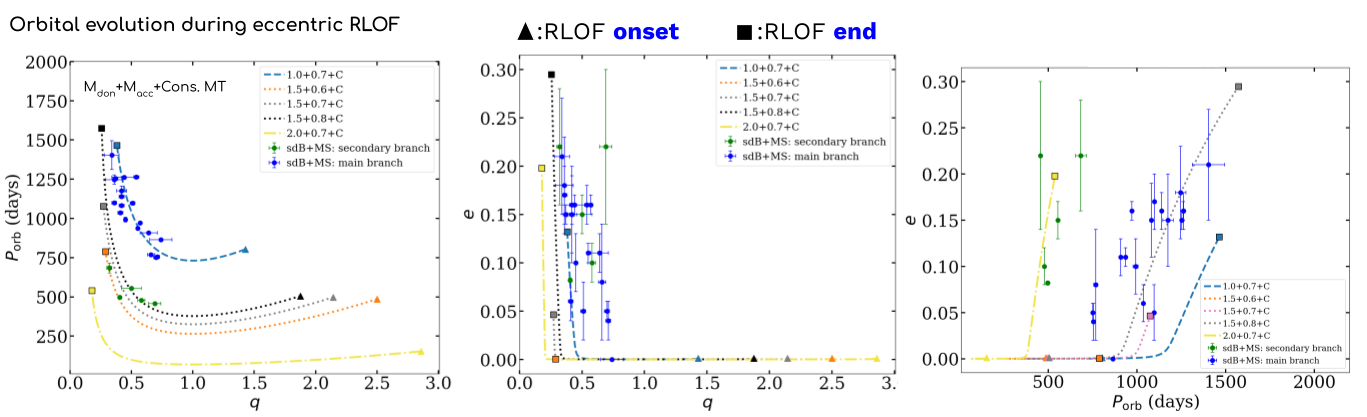
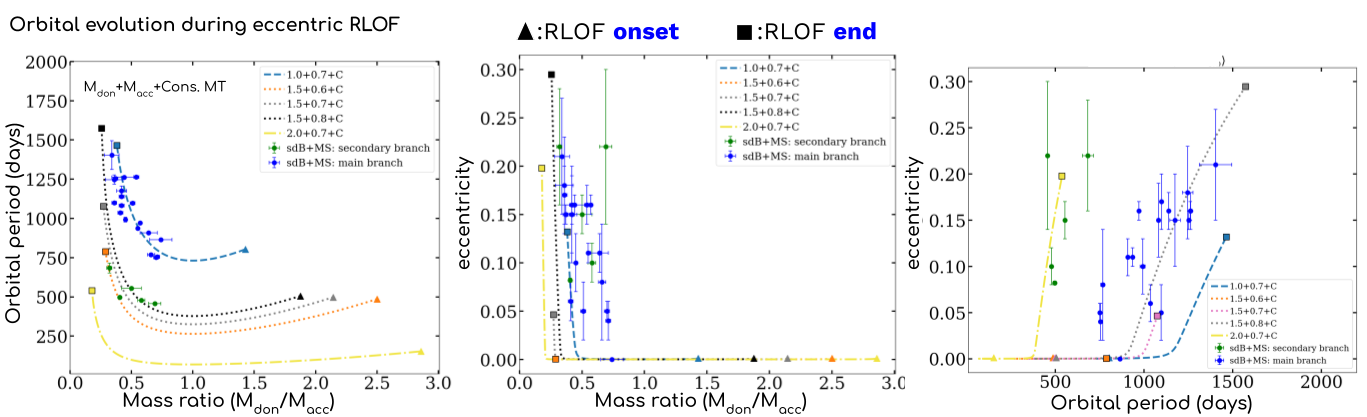
Split publications into first-author and co-authored sections
- /publications/ now renders sections from _data/publication_sections.yml;
  a paper picks one with `section:`, defaulting to the first via _config.yml
- Archive layout gains `hide_title` and `title_center` front-matter flags
- Centre the Talks title and shorten it to "Talks"
- Move the Google Scholar note to the bottom of /publications/
- Update evolution.png

diff --git a/_pages/publications.html b/_pages/publications.html
@@ -1,20 +1,48 @@
 ---
 layout: archive
 title: "Publications"
+hide_title: true
 permalink: /publications/
 ---
 
-{% if site.author.googlescholar %}
-  <div class="wordwrap">You can also find my articles on <a href="{{site.author.googlescholar}}">my Google Scholar profile</a>.</div>
-{% endif %}
-
 {% include base_path %}
 
-<div class="item-card-grid">
-{% for post in site.publications reversed %}
-  {% include item-card.html item=post %}
+{% comment %}
+  The sections, their headings and their order all come from
+  _data/publication_sections.yml; a publication chooses one with `section: <id>`
+  in its front matter and otherwise falls into the first section (the default is
+  set for the whole collection in _config.yml). The page's own title is hidden
+  (`hide_title` above) so these section headings read as the page's headings.
+
+  A section with nothing in it is skipped, and a publication whose `section:`
+  matches no id — a typo, say — falls back to the first section rather than
+  disappearing off the page.
+{% endcomment %}
+
+{% assign known_ids = site.data.publication_sections | map: "id" %}
+{% assign all_publications = site.publications | sort: "date" | reverse %}
+
+{% for section in site.data.publication_sections %}
+  {% capture cards %}
+    {% for post in all_publications %}
+      {% assign sec = post.section %}
+      {% unless known_ids contains sec %}{% assign sec = known_ids | first %}{% endunless %}
+      {% if sec == section.id %}
+        {% include item-card.html item=post %}
+      {% endif %}
+    {% endfor %}
+  {% endcapture %}
+
+  {% assign cards = cards | strip %}
+
+  {% if cards != '' %}
+    <section class="publication-section">
+      <h1 class="publication-section__title">{{ section.title }}</h1>
+      <div class="item-card-grid">{{ cards }}</div>
+    </section>
+  {% endif %}
 {% endfor %}
-</div>
 
-
-
+{% if site.author.googlescholar %}
+  <div class="wordwrap publications-note">You can also find my articles on <a href="{{site.author.googlescholar}}">my Google Scholar profile</a>.</div>
+{% endif %}

diff --git a/_sass/layout/_archive.scss b/_sass/layout/_archive.scss
@@ -100,6 +100,26 @@
    Item card (unified publications/talks/portfolio rendering)
    ========================================================================== */
 
+/* Closing note under the last section's cards. */
+.publications-note {
+  margin-top: 2.5em;
+}
+
+/* /publications/ groups its cards under the headings defined in
+   _data/publication_sections.yml. The heading matches .page__title (see
+   _page.scss) so the first section reads as the page's own title. */
+.publication-section + .publication-section {
+  margin-top: 2.5em;
+}
+
+.publication-section__title {
+  margin: 0 0 0.8em;
+  line-height: 1;
+  font-weight: 800;
+  letter-spacing: -0.01em;
+  text-align: center;
+}
+
 .item-card-grid {
   display: grid;
   grid-template-columns: 1fr;

diff --git a/_layouts/archive.html b/_layouts/archive.html
@@ -18,8 +18,8 @@ layout: default
   {% include sidebar.html %}
 
   <div class="archive{% unless page.author_profile or layout.author_profile or page.sidebar %} archive--full{% endunless %}">
-    {% unless page.header.overlay_color or page.header.overlay_image or page.header.hero_orbit %}
-      <h1 class="page__title">{{ page.title }}</h1>
+    {% unless page.header.overlay_color or page.header.overlay_image or page.header.hero_orbit or page.hide_title %}
+      <h1 class="page__title{% if page.title_center %} page__title--center{% endif %}">{{ page.title }}</h1>
     {% endunless %}
     {{ content }}
   </div>

diff --git a/_sass/layout/_page.scss b/_sass/layout/_page.scss
@@ -58,6 +58,13 @@
   & + .page__meta {
     margin-top: -0.5em;
   }
+
+  /* Opt in per page with `title_center: true` in front matter — see
+     _layouts/archive.html. Centres the title the way /research/ centres its
+     own in-content headings. */
+  &--center {
+    text-align: center;
+  }
 }
 
 .page__content {

diff --git a/_pages/talks.html b/_pages/talks.html
@@ -1,6 +1,7 @@
 ---
 layout: archive
-title: "Talks and presentations"
+title: "Talks"
+title_center: true
 permalink: /talks/
 ---
 
